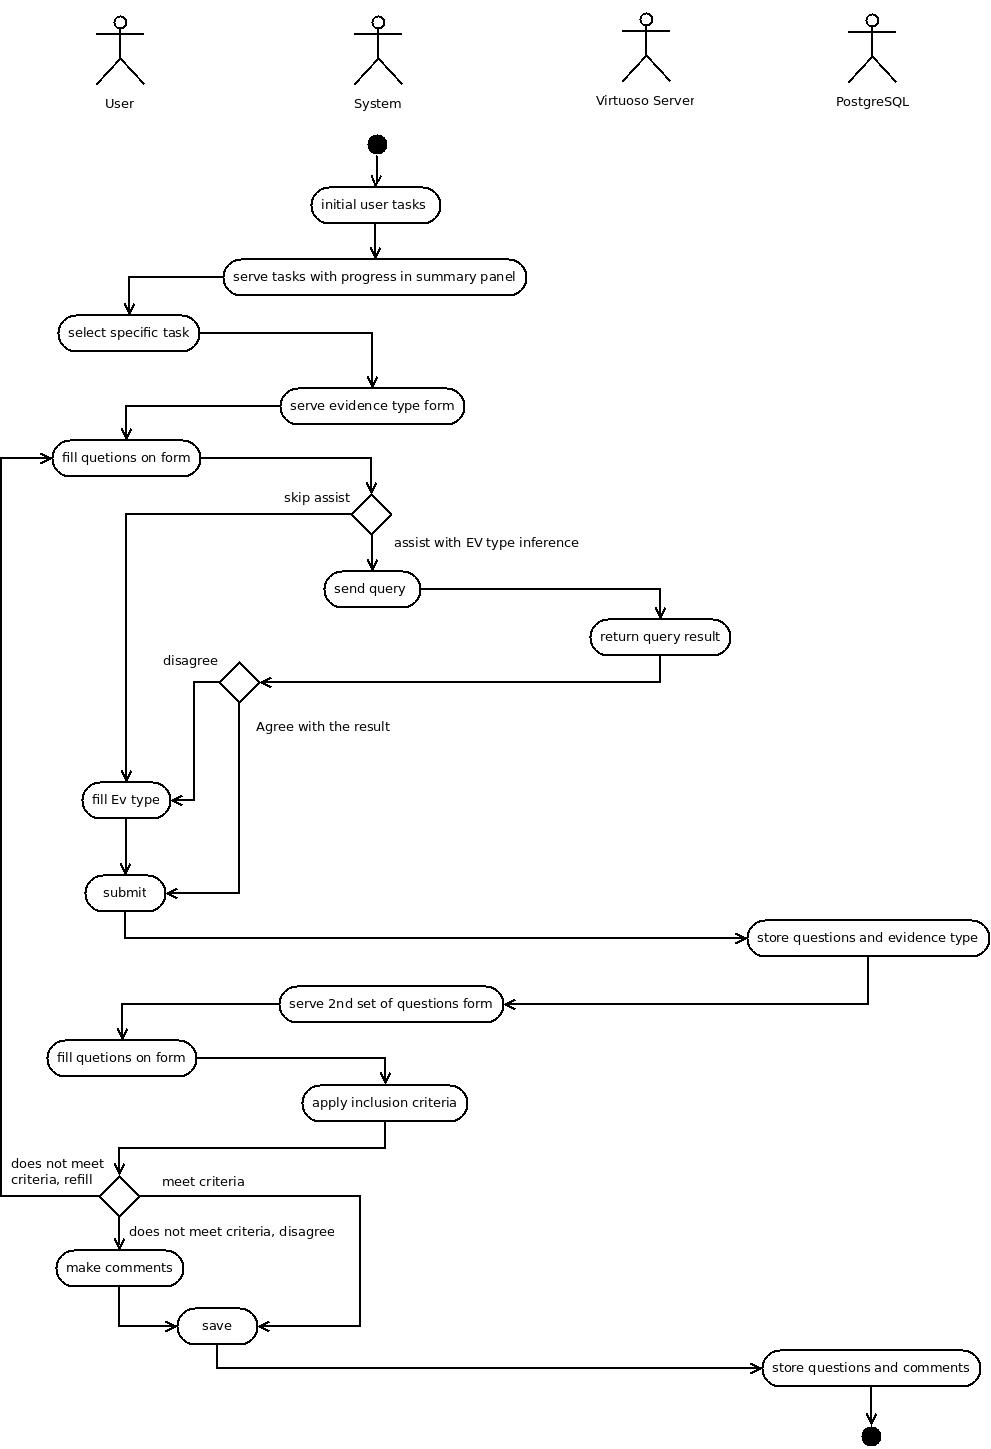
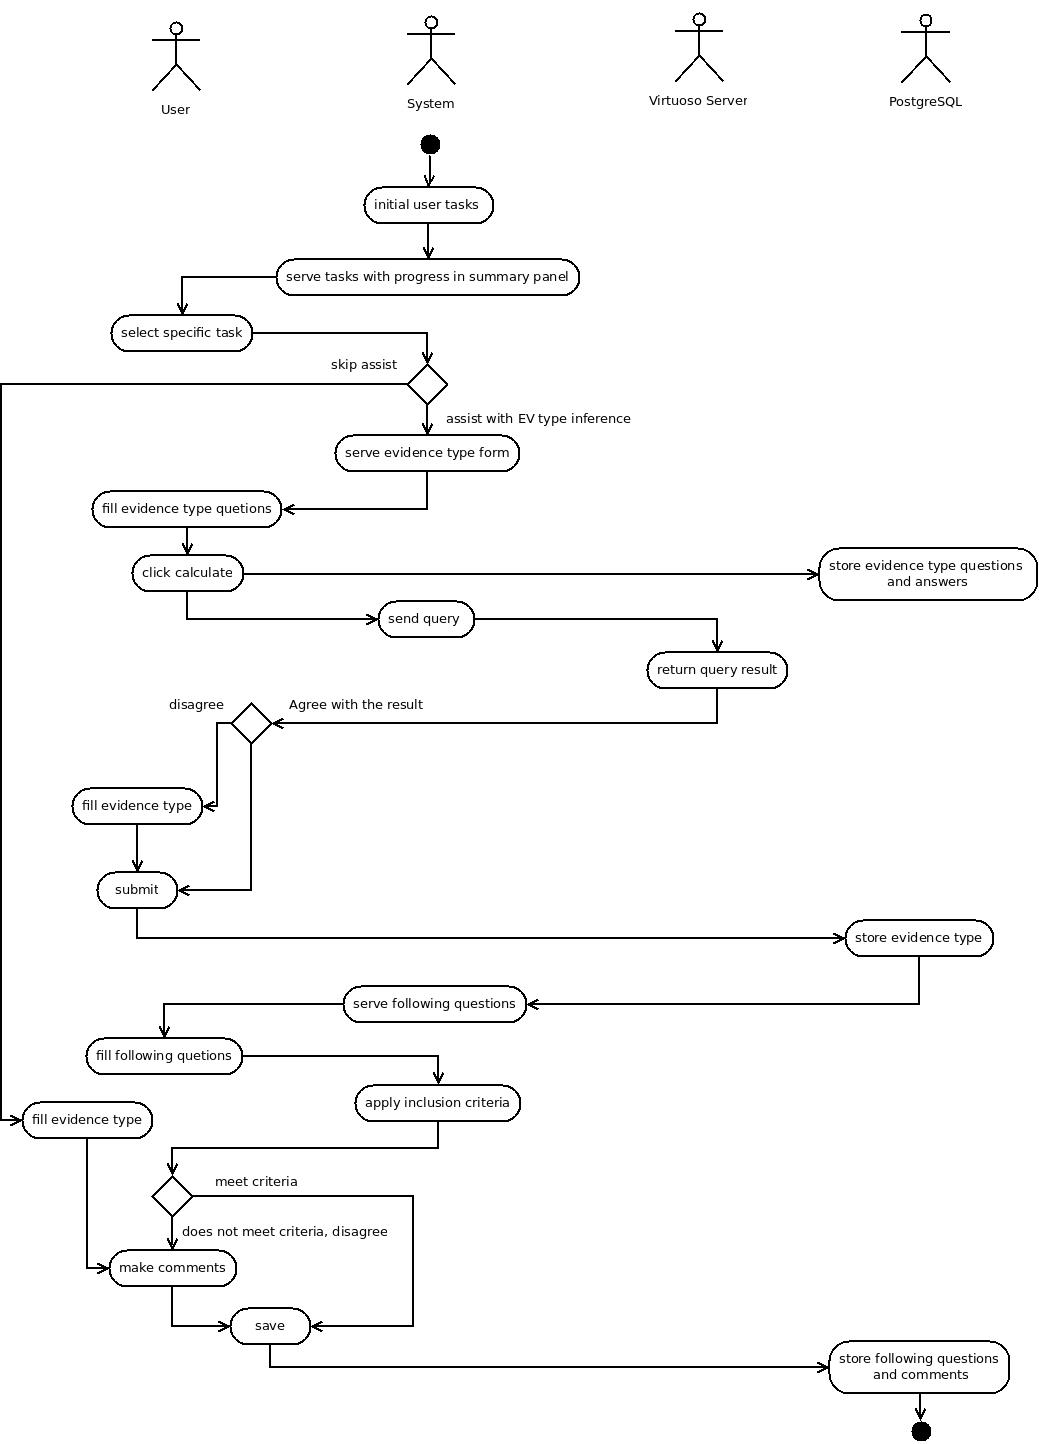
revise evidence type inference workflow in AD

diff --git a/source/evidence_type_calculator/views/forms/index.html b/source/evidence_type_calculator/views/forms/index.html
@@ -281,12 +281,12 @@
       </form>
 
 
-    <!--   <\!-- Content #7 -\->  -->
-    <!--     <div id="confirmBox"> -->
-    <!--     <div class="message"></div> -->
-    <!--     <span class="yes">Yes</span> -->
-    <!--     <span class="no">No</span> -->
-    <!--     </div> -->
+      <!-- Content #7 -->
+      <div id="confirmBox">
+        <div class="message"></div>
+        <span class="yes">Yes</span>
+        <span class="no">No</span>
+      </div>
 
     <!--   <\!-- Content #8 -\->  -->
     <!--     <div class= "radioform" style='display:none;' id='caseReportIC'> -->
